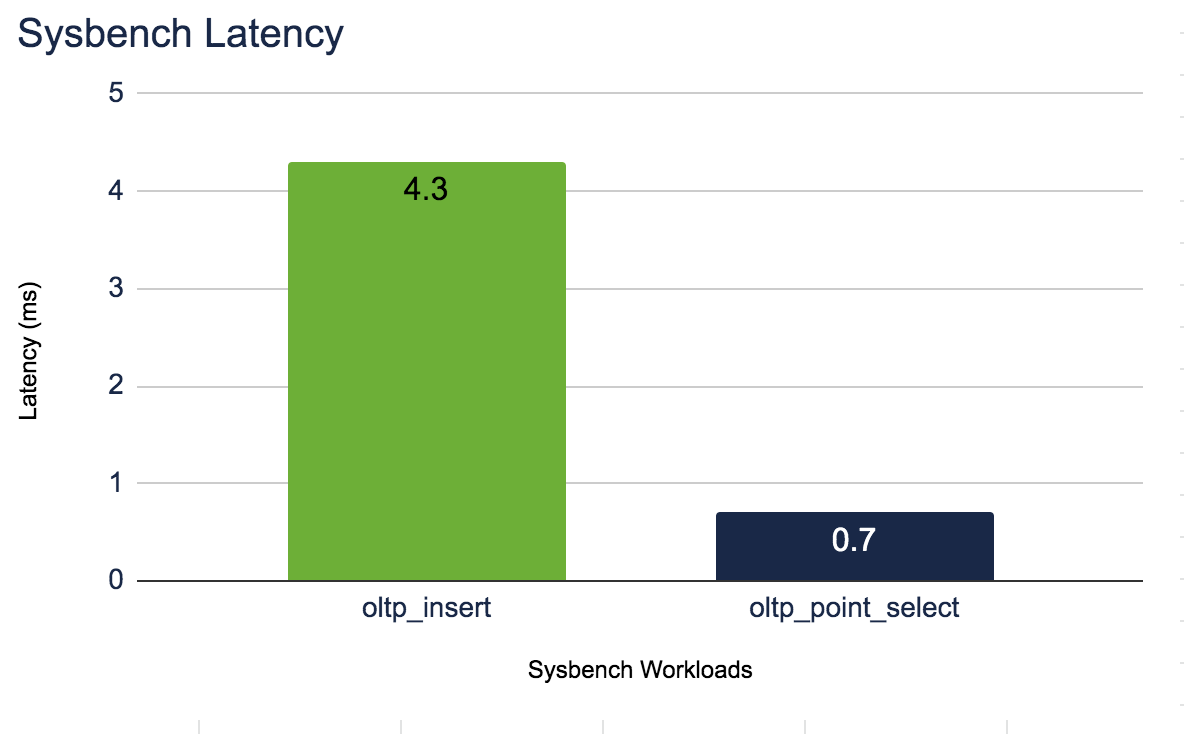
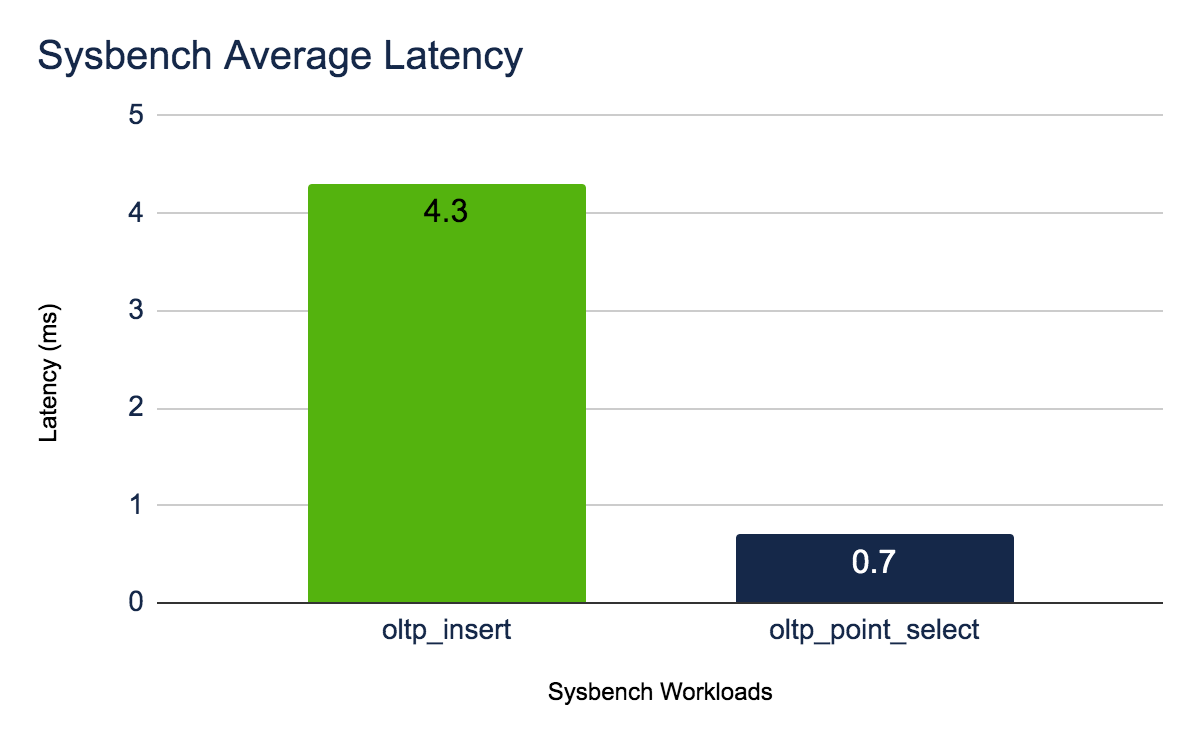
addressed feedback

diff --git a/v19.2/performance.md b/v19.2/performance.md
@@ -18,7 +18,7 @@ Once those are available, if you fail to achieve similar performance profiles, t
 
 ## Scale
 
-TPC-C provides the most realistic and objective measure for OLTP performance at various scale factors, and CockroachDB can hit an incredible 631K tpmC with 50,000 warehouses! That's **98% of the maximum possible throughput per minute for TPC-C 50K**. For a refresher on what exactly TPC-C is and how it is measured consult the Benchmarks Used section below.
+TPC-C provides the most realistic and objective measure for OLTP performance at various scale factors, and CockroachDB can process **631K tpmC with 50,000 warehouses.** That's 98% of the maximum possible throughput per minute for TPC-C 50K. For a refresher on what exactly TPC-C is and how it is measured consult the Benchmarks Used section below.
 
 Comparing CockroachDB's unofficial TPC-C results to Amazon Aurora RDS's last published metrics from AWS re:Invent 2017, CockroachDB is now 50 times more scalable than Amazon Aurora, supporting 25 billion rows and more than 4 terabytes of frequently accessed data:
 
@@ -26,8 +26,8 @@ Comparing CockroachDB's unofficial TPC-C results to Amazon Aurora RDS's last pub
 
                                    | CockroachDB       | Amazon Aurora   
 -----------------------------------|-------------------|--------------
-Max Throughput                     | 631851 tpmC       | 12582 tpmC     
-Max Warehouses with Max Efficiency | 50000 Warehouses  | 1000 Warehouses
+Max Throughput                     | 631,851 tpmC      | 12,582 tpmC     
+Max Warehouses with Max Efficiency | 50,000 Warehouses | 1,000 Warehouses
 Max Number of Rows                 | 24.9B             | 0.499B         
 Max Unreplicated Data              | 4TB               | 0.08TB         
 Machine type                       | c5d.4xlarge       | r3.8xl         
@@ -40,23 +40,31 @@ To learn more about our comparison with Amazon Aurora, see this [blog post](http
 
 ### Linear Scaling
 
-CockroachDB has **no theoretical scaling limit** and, in practice, can achieve near-linear performance passed more than 256 nodes. Because the TPC-C results above reflect leaps in scale, to test linear scaling, Cockroach Labs ran a simple benchmark named KV 95 (95% point reads, 5% point writes, all uniformly distributed) on AWS `c5d.4xlarge` machines:
+CockroachDB has **no theoretical scaling limit** and, in practice, can achieve near-linear performance at 256 nodes. Because the TPC-C results above reflect leaps in scale, to test linear scaling, Cockroach Labs ran a simple benchmark named KV 95 (95% point reads, 5% point writes, all uniformly distributed) on AWS `c5d.4xlarge` machines:
 
 <img src="{{ 'images/v19.2/linearscale.png' | relative_url }}" alt="CRDB Linear Scale" style="max-width:100%" />
 
-This chart shows that adding nodes increases throughput linearly while holding p50 and p99 latency constant.
+This chart shows that adding nodes increases throughput linearly while holding p50 and p99 latency constant. We've also shared the concurrency used at each number of nodes tested in the table below.
 
+| Number of Nodes | Concurrency
+|-----------------|------------
+| 16              | 512
+| 32              | 512
+| 64              | 1024
+| 128             | 1024
+| 256             | 2048
 ## Throughput
 
 As mentioned above, Cockroach Labs believes TPC-C provides the most realistic and objective measure for OLTP throughput. In the real world, applications generate transactional workloads that consist of a combination of reads and writes, possibly with concurrency and likely without all data being loaded into memory. If you see benchmark results quoted in QPS, take them with a grain of salt, because anything as simple as a “query” is unlikely to be representative of the workload you need to run in practice.
 
-With that in mind, however, you can use [Sysbench](https://github.com/akopytov/sysbench) for straight-forward throughput benchmarking. For example, on a 3-node cluster of AWS `c5d.9xlarge` machines across AWS’s `us-east-1` region (availability zones `a`, `b`, and `c`), CockroachDB can achieve 118,000 inserts per second on the `oltp_insert` workload and 336,000 reads per second on the `oltp_point_select` workload:
+With that in mind, however, you can use [Sysbench](https://github.com/akopytov/sysbench) for straight-forward throughput benchmarking. For example, on a 3-node cluster of AWS `c5d.9xlarge` machines across AWS’s `us-east-1` region (availability zones `a`, `b`, and `c`), CockroachDB can achieve 118,000 inserts per second on the `oltp_insert` workload and 336,000 reads per second on the `oltp_point_select` workload. We used a concurrency of 480 on the oltp_insert workload and a concurrency of 216 on the oltp_point_select workload to generate these numbers.
 
 <img src="{{ 'images/v19.2/sysbench-throughput.png' | relative_url }}" alt="Sysbench Throughput" style="max-width:100%" />
 
+
 ## Latency
 
-CockroachDB returns single-row **reads in 1 ms or less** and processes single-row **writes in 2 ms or less**, with a number of important tuning practices for both single-region and multi-region deployments, including [secondary indexes](indexes.html) and various [data topologies](topology-patterns.html).
+CockroachDB returns single-row **reads in 1 ms** and processes single-row **writes in 2 ms**, with a number of important tuning practices for both single-region and multi-region deployments, including [secondary indexes](indexes.html) and various [data topologies](topology-patterns.html).
 
 For benchmarking latency, again, Cockroach Labs believes TPC-C provides the most realistic and objective measure, since it encompasses the latency distribution, including tail performance. However, you can use [Sysbench](https://github.com/akopytov/sysbench) for straight-forward latency benchmarking. For example, on a 3-node cluster of AWS `c5d.9xlarge` machines across AWS’s `us-east-1` region (availability zones `a`, `b`, and `c`), CockroachDB can achieve an average of 4.3ms on the `oltp_insert` workload and 0.7ms on the `oltp_point_select` workload:
 
